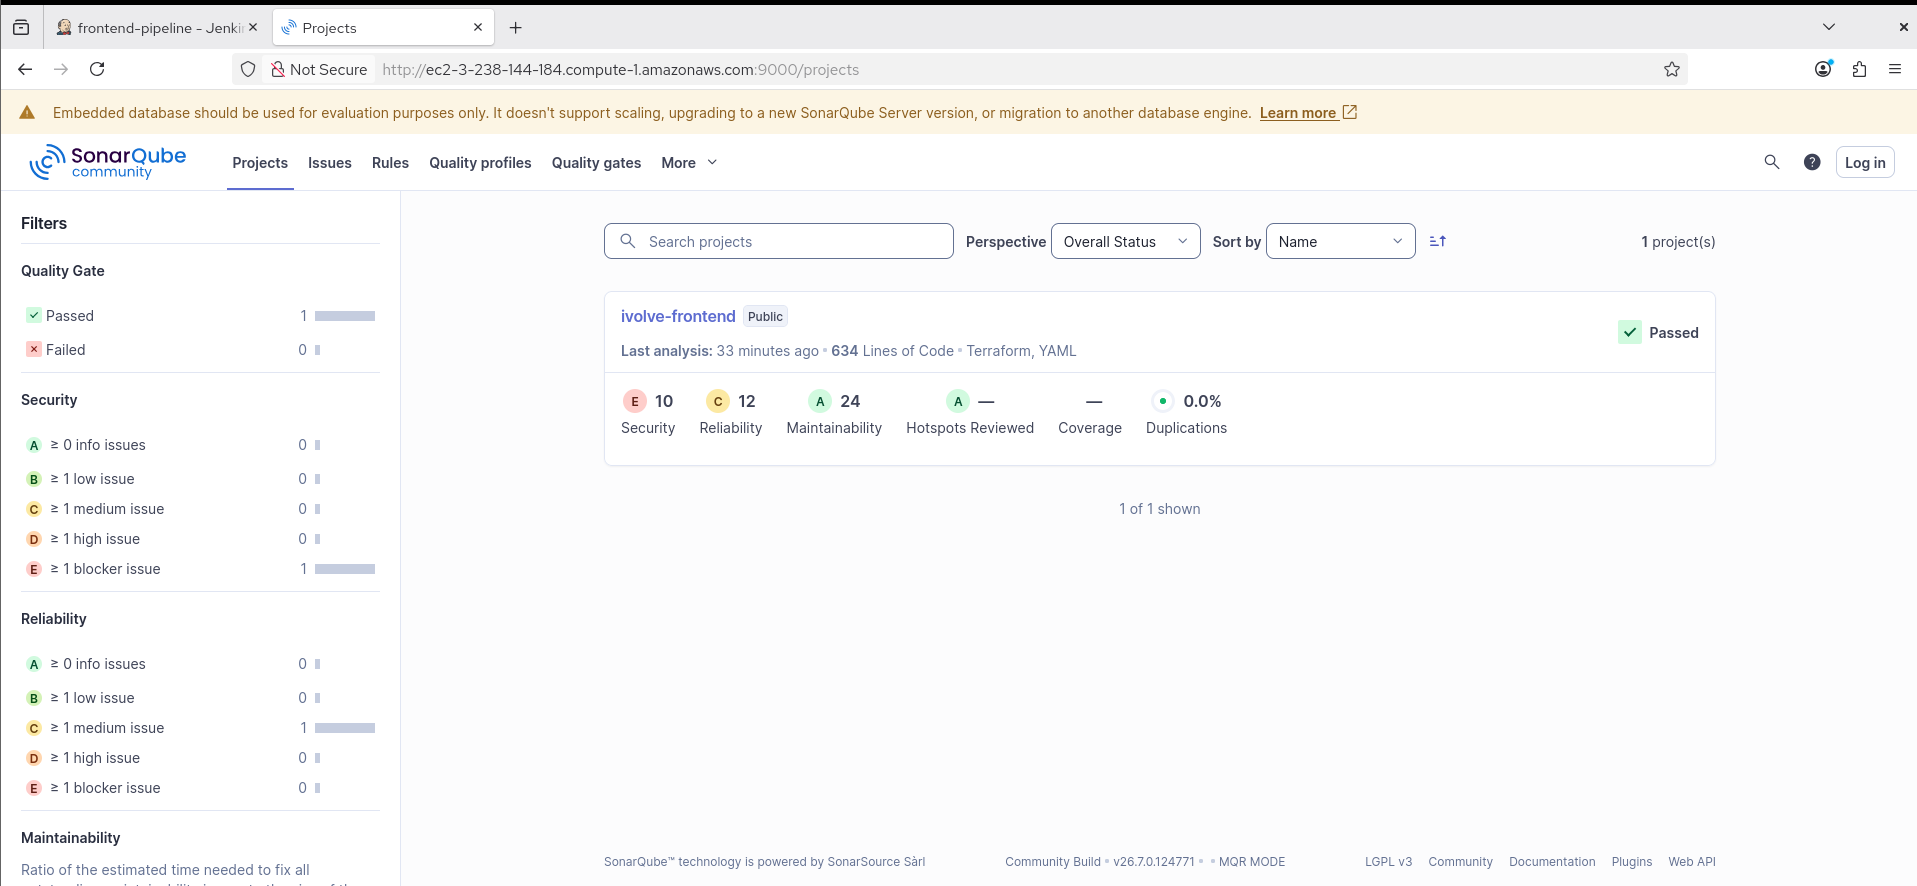
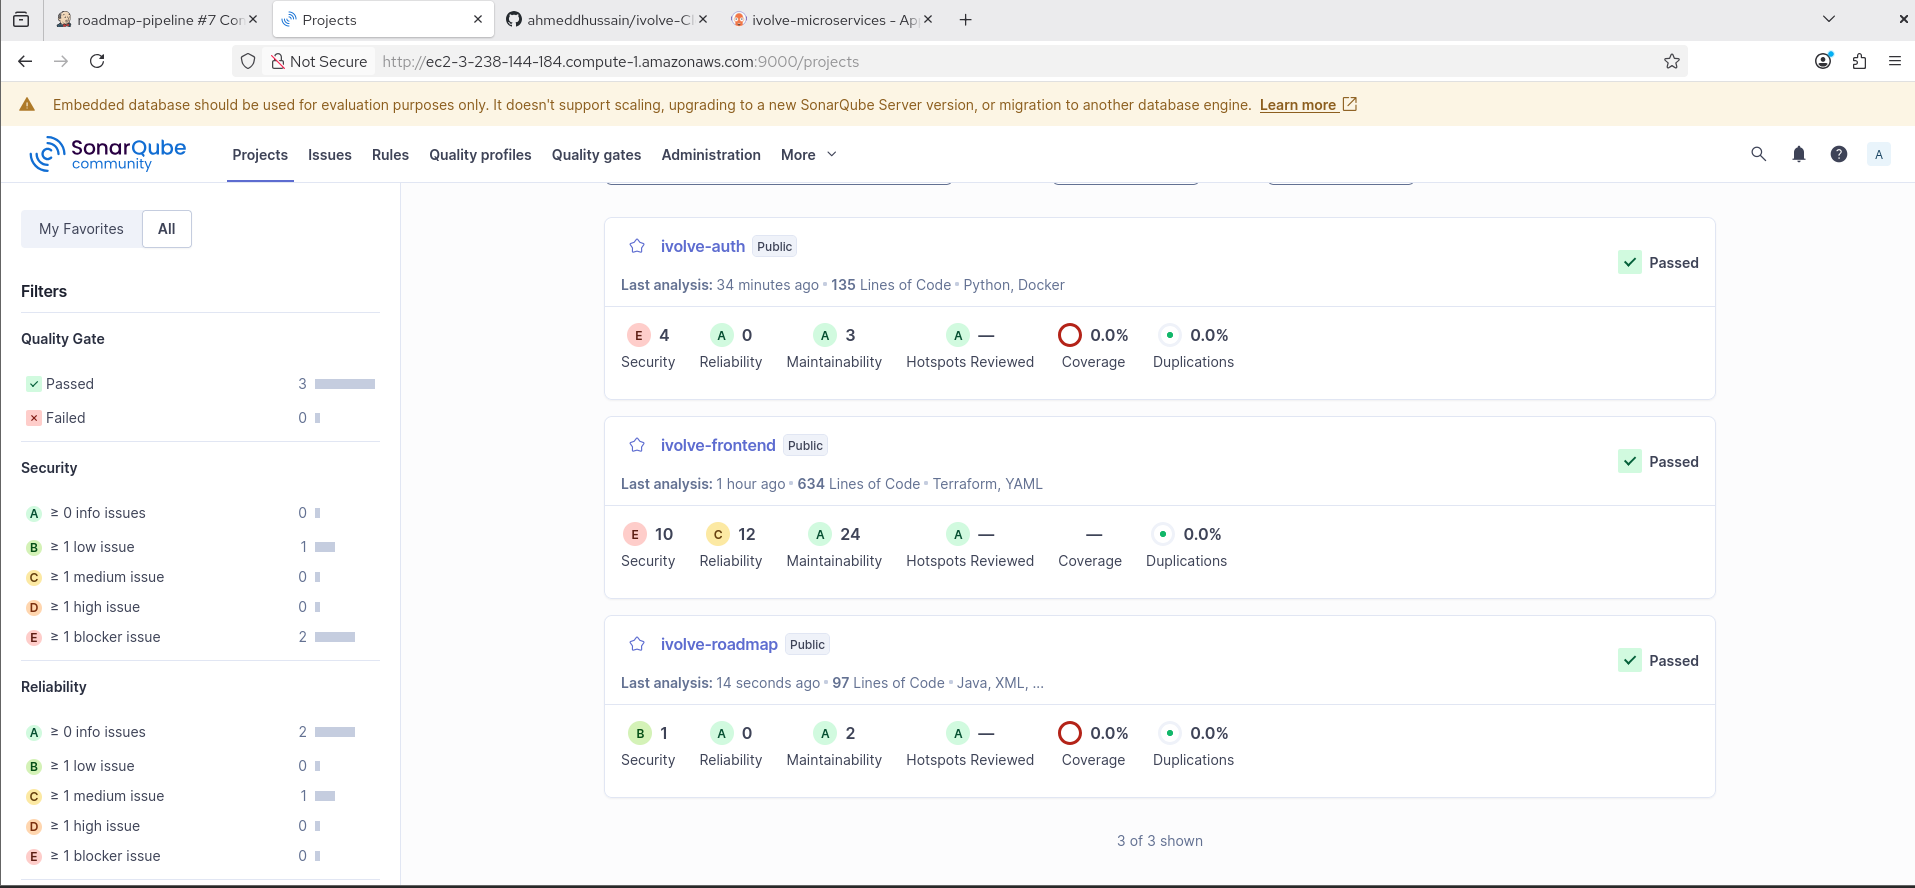
fixing ingress

diff --git a/README.md b/README.md
@@ -464,16 +464,18 @@ ArgoCD is deployed inside the EKS cluster to handle Continuous Deployment (CD) f
 ```bash
 aws eks update-kubeconfig --region us-east-1 --name ivolve-eks-cluster
 ```
- OR ANY other way you find convient.
+ OR any other way you find convient.
 
 2. **Install ArgoCD Controller on EKS:**
 ```bash
 kubectl create namespace argocd
 kubectl apply -n argocd -f https://raw.githubusercontent.com/argoproj/argo-cd/stable/manifests/install.yaml
 ```
-3. **Deploy ArgoCD Application Manifest:**
+3. **Deploy ArgoCD Application Manifests:**
 ```bash
 kubectl apply -f argocd/application.yml
+kubectl apply -f argocd/svc-lb.yml
+
 ```
 4. **Verify Microservices & Ingress:**
 ```bash
@@ -481,19 +483,20 @@ kubectl get pods -n ivolve
 kubectl get svc -n ivolve
 kubectl get ingress -n ivolve
 ```
-5. **Get the first Admin password**
+5. **Get the first Admin password and `EXTERNAL-IP`**
 ```bash
 kubectl -n argocd get secret argocd-initial-admin-secret -o jsonpath="{.data.password}" | base64 -d; echo
+kubectl get svc argocd-server -n argocd
 ```
-6. **Login to the
+
+Then use the `EXTERNAL-IP` coloumn and login using `admin` and output initial password.
 
 ### Test Results
 
 * ArgoCD successfully synced all microservices and MySQL StatefulSet.
 * Frontend Ingress provisioned the AWS Application Load Balancer.
 
-![ArgoCD Dashboard Sync](screenshots/argocd-dashboard.png)
-
+![alt text](screenshots/image-12.png)
 ---
 
 ## Troubleshooting
